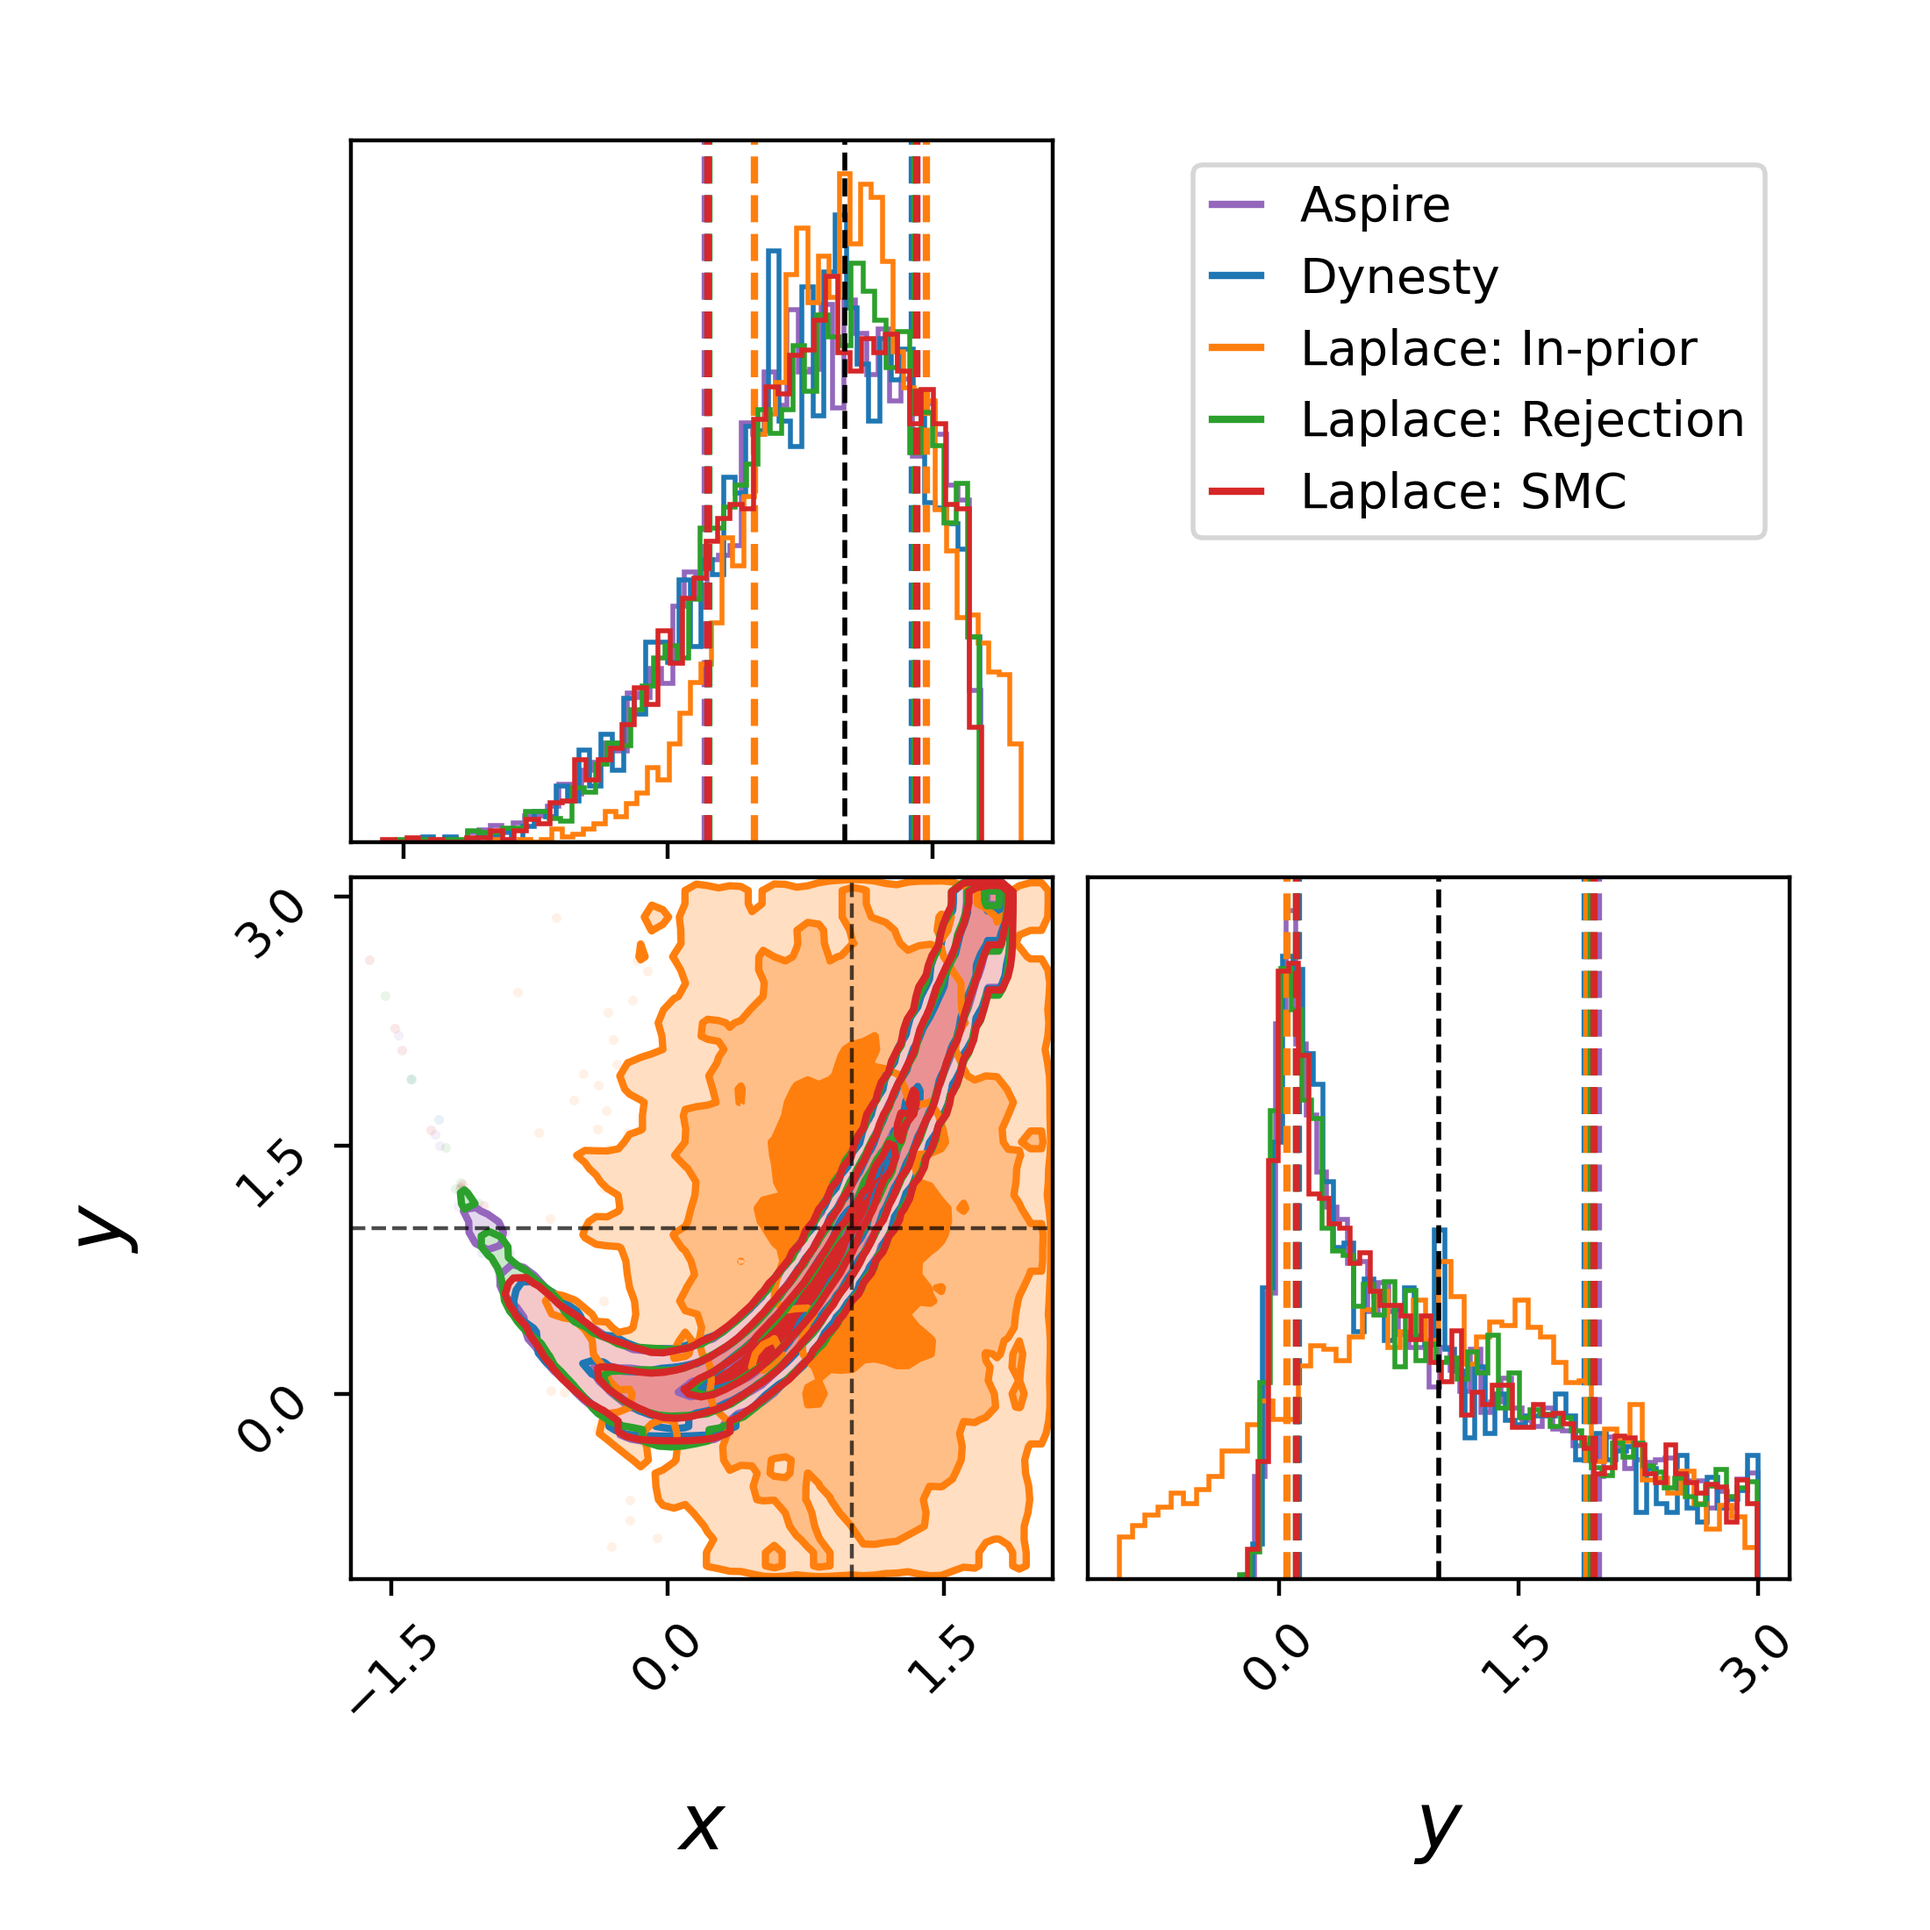
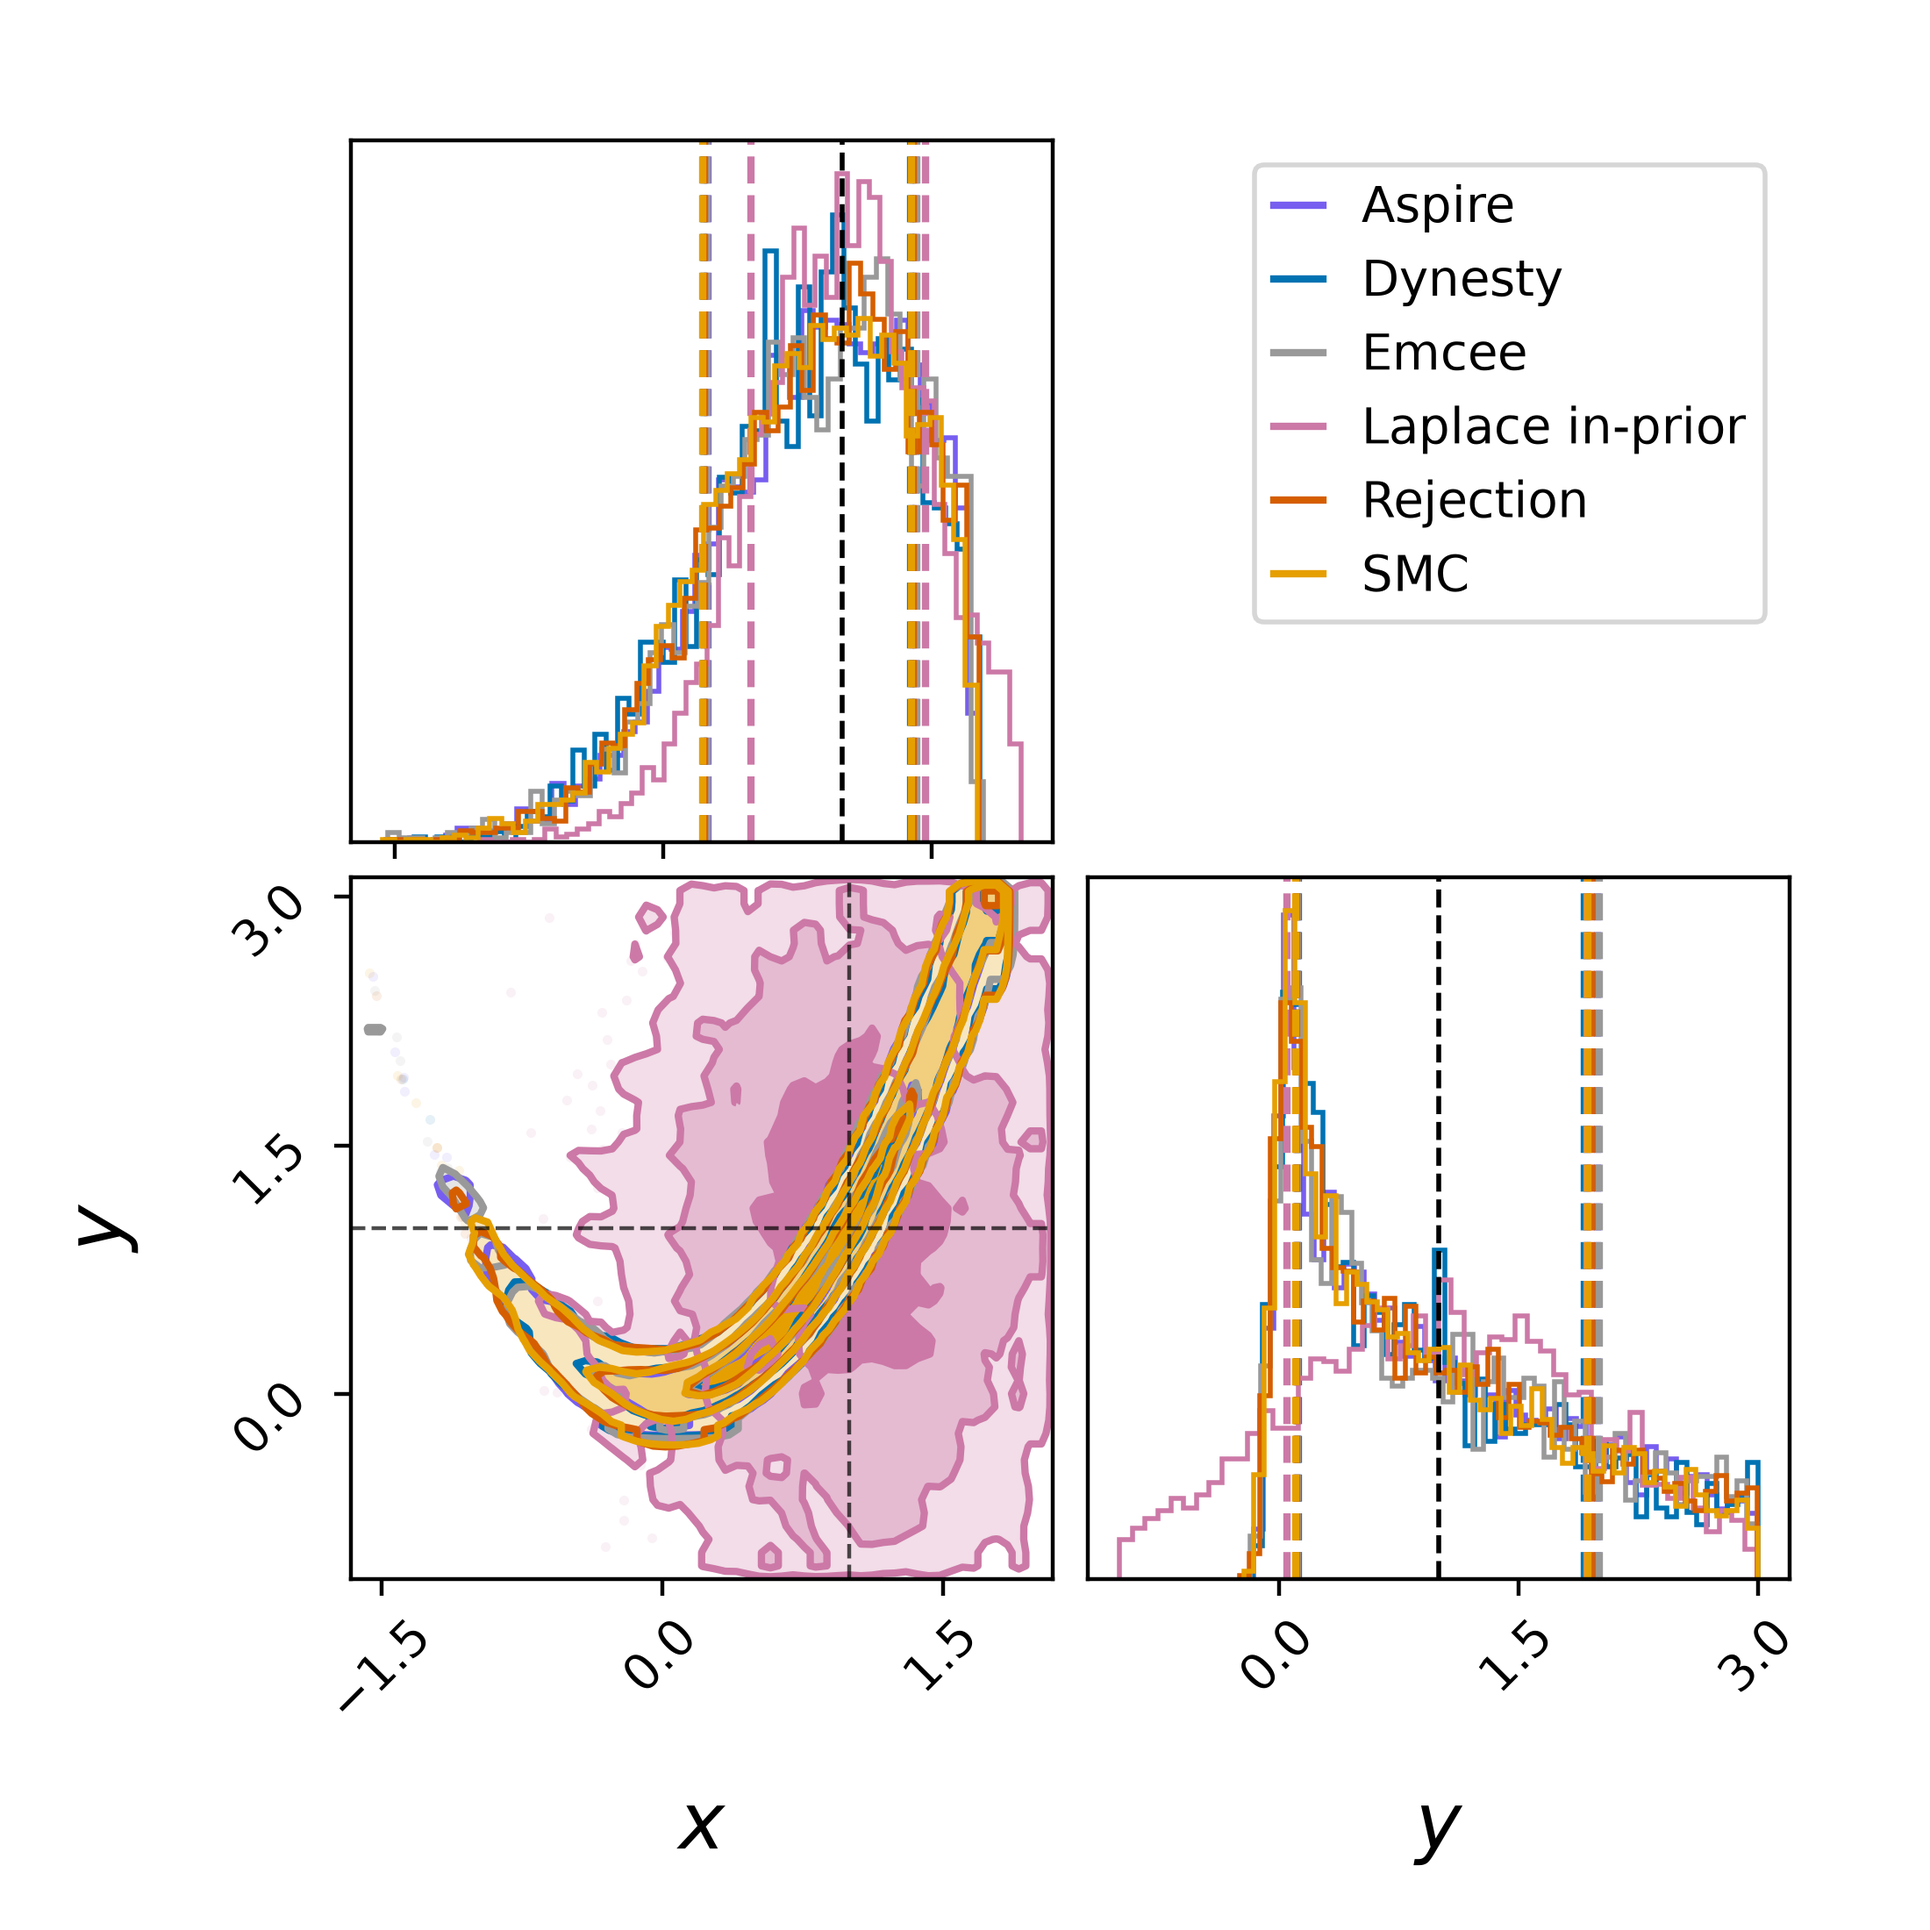
Add emcee to the gaussian and rosenbrock examples
Wires resample='emcee' into both examples' Makefile/run.py (mirroring
the existing sampler choices), runs it alongside the other methods, and
regenerates each README/comparison plot from the full result set. On
rosenbrock's banana likelihood the ensemble mixes much more slowly than
on the gaussian, so its target_nsamples is lowered to a value the chain
actually reaches rather than chasing the shared 5000 with an
impractically long run.

diff --git a/examples/rosenbrock/run.py b/examples/rosenbrock/run.py
@@ -3,7 +3,7 @@ Laplace approximation on a 2D Rosenbrock (banana) likelihood.
 
 Usage
 -----
-    python run.py --sampler laplace rejection smc smc-direct dynesty
+    python run.py --sampler laplace rejection smc smc-direct emcee dynesty
     python run.py --compare
 """
 
@@ -102,6 +102,25 @@ def run_rejection(_common_laplace):
     )
 
 
+def run_emcee(_common_laplace):
+    # The banana curvature of this likelihood mixes far more slowly than the
+    # Laplace-Gaussian proposal it starts from -- tau grows for tens of
+    # thousands of steps before settling near 300 -- so the 5000-sample target
+    # used elsewhere in this repo would need an impractically long chain.
+    # Accept fewer independent samples rather than chase that target.
+    return bilby.run_sampler(
+        **{**_common_laplace, "target_nsamples": 2500},
+        label=f"{base_label}_emcee",
+        resample="emcee",
+        emcee_kwargs=dict(
+            nwalkers=32,
+            nsteps=2000,
+            discard=1000,
+            max_nsteps=30000,
+        ),
+    )
+
+
 def run_smc(_common_laplace):
     return bilby.run_sampler(
         **_common_laplace,
@@ -161,9 +180,9 @@ if __name__ == "__main__":
     parser.add_argument(
         "--sampler",
         nargs="+",
-        choices=["laplace", "rejection", "smc", "smc-direct", "dynesty"],
+        choices=["laplace", "rejection", "smc", "smc-direct", "emcee", "dynesty"],
         metavar="SAMPLER",
-        help="One or more samplers to run: laplace, rejection, smc, smc-direct, dynesty",
+        help="One or more samplers to run: laplace, rejection, smc, smc-direct, emcee, dynesty",
     )
     parser.add_argument(
         "--compare",
@@ -184,6 +203,7 @@ if __name__ == "__main__":
                 "rejection": lambda: run_rejection(_common_laplace),
                 "smc": lambda: run_smc(_common_laplace),
                 "smc-direct": lambda: run_smc_direct(_common),
+                "emcee": lambda: run_emcee(_common_laplace),
                 "dynesty": lambda: run_dynesty(_common),
             }
 

diff --git a/examples/gaussian/run.py b/examples/gaussian/run.py
@@ -3,7 +3,7 @@ Laplace approximation on a 2D correlated Gaussian likelihood.
 
 Usage
 -----
-    python run.py --sampler laplace rejection rejection-user smc smc-direct dynesty
+    python run.py --sampler laplace rejection rejection-user smc smc-direct emcee dynesty
     python run.py --compare
 """
 
@@ -130,6 +130,20 @@ def run_rejection_user(_common_laplace, sampling_cov):
     )
 
 
+def run_emcee(_common_laplace):
+    return bilby.run_sampler(
+        **_common_laplace,
+        label="emcee",
+        resample="emcee",
+        emcee_kwargs=dict(
+            nwalkers=32,
+            nsteps=2000,
+            discard=1000,
+            max_nsteps=6000,
+        ),
+    )
+
+
 def run_smc(_common_laplace):
     return bilby.run_sampler(
         **_common_laplace,
@@ -187,9 +201,9 @@ if __name__ == "__main__":
     parser.add_argument(
         "--sampler",
         nargs="+",
-        choices=["laplace", "rejection", "rejection-user", "smc", "smc-direct", "dynesty"],
+        choices=["laplace", "rejection", "rejection-user", "smc", "smc-direct", "emcee", "dynesty"],
         metavar="SAMPLER",
-        help="One or more samplers to run: laplace, rejection, rejection-user, smc, smc-direct, dynesty",
+        help="One or more samplers to run: laplace, rejection, rejection-user, smc, smc-direct, emcee, dynesty",
     )
     parser.add_argument(
         "--compare",
@@ -211,6 +225,7 @@ if __name__ == "__main__":
                 "rejection-user": lambda: run_rejection_user(_common_laplace, true_cov),
                 "smc": lambda: run_smc(_common_laplace),
                 "smc-direct": lambda: run_smc_direct(_common),
+                "emcee": lambda: run_emcee(_common_laplace),
                 "dynesty": lambda: run_dynesty(_common),
             }
 

diff --git a/examples/gaussian/README.md b/examples/gaussian/README.md
@@ -1,6 +1,6 @@
 # gaussian — sampler comparison
 
-Posteriors from 6 samplers (`aspire`, `dynesty`, `laplace`, `rejection`, `rejection_user`, `smc`) on the gaussian example, each compared against the `dynesty` reference.
+Posteriors from 7 samplers (`aspire`, `dynesty`, `emcee`, `laplace`, `rejection`, `rejection_user`, `smc`) on the gaussian example, each compared against the `dynesty` reference.
 
 ## Running it
 
@@ -9,7 +9,7 @@ make all       # every sampler in turn, then this comparison
 make compare   # rebuild this table and the corner plot from existing results
 ```
 
-Individual samplers: `make laplace`, `make rejection`, `make rejection-user`, `make smc`, `make aspire`, `make dynesty`.
+Individual samplers: `make laplace`, `make rejection`, `make rejection-user`, `make smc`, `make aspire`, `make emcee`, `make dynesty`.
 
 ## Comparison
 
@@ -23,10 +23,11 @@ Both agreement columns compare each 1-D marginal with `dynesty` at a fixed 2000 
 
 | method | log Z | ± | Mevals | effic. | time | JSD (mbits) | JSD worst | EMD (σ) | EMD worst | settings |
 | --- | --- | --- | --- | --- | --- | --- | --- | --- | --- | --- |
-| `aspire` | -4.62 | 0.03 | 0.18 | 2.8% | 9.2s | 2.07 | y (2.34) | 0.04 | y (0.05) | `nsamples=5000, nsteps=5` |
-| `dynesty` | -4.61 | 0.08 | 0.114 | 3.4% | 7.8s | — | — | — | — | `nlive=1000` |
-| `laplace` | -4.61 | — | 0.005 | 100.0% | 1.0s | 0.92 | x (1.07) | 0.03 | x (0.03) | — |
-| `rejection` | -4.61 | 0.01 | 0.027 | 18.8% | 1.3s | 2.63 | x (3.16) | 0.07 | x (0.07) | — |
-| `rejection_user` | -4.61 | 0.01 | 0.027 | 18.8% | 1.1s | 2.47 | y (2.50) | 0.05 | y (0.06) | — |
-| `smc` | -4.61 | 0.01 | 0.045 | 11.1% | 11.2s | 0.68 | y (0.71) | 0.03 | y (0.03) | `nsamples=5000, nsteps=5` |
+| `aspire` | -4.60 | 0.03 | 0.18 | 2.8% | 22.8s | 2.76 | y (2.82) | 0.08 | x (0.09) | `nsamples=5000, nsteps=5` |
+| `dynesty` | -4.61 | 0.08 | 0.114 | 3.4% | 17.4s | — | — | — | — | `nlive=1000` |
+| `emcee` | — | — | 0.192 | 2.6% | 18.1s | 1.43 | y (1.43) | 0.05 | y (0.06) | — |
+| `laplace` | -4.61 | — | 0.005 | 100.0% | 2.7s | 0.88 | x (1.09) | 0.04 | y (0.05) | — |
+| `rejection` | -4.61 | 0.01 | 0.027 | 18.8% | 3.4s | 1.98 | x (2.13) | 0.05 | y (0.05) | — |
+| `rejection_user` | -4.61 | 0.01 | 0.027 | 18.8% | 3.4s | 2.22 | x (2.97) | 0.05 | x (0.05) | — |
+| `smc` | -4.61 | 0.01 | 0.045 | 11.1% | 25.3s | 1.17 | y (1.18) | 0.03 | y (0.04) | `nsamples=5000, nsteps=5` |
 

diff --git a/examples/rosenbrock/README.md b/examples/rosenbrock/README.md
@@ -1,6 +1,6 @@
 # rosenbrock — sampler comparison
 
-Posteriors from 5 samplers (`rosenbrock_aspire`, `rosenbrock_dynesty`, `rosenbrock_inprior`, `rosenbrock_rejection`, `rosenbrock_smc`) on the rosenbrock example, each compared against the `rosenbrock_dynesty` reference.
+Posteriors from 6 samplers (`rosenbrock_aspire`, `rosenbrock_dynesty`, `rosenbrock_emcee`, `rosenbrock_inprior`, `rosenbrock_rejection`, `rosenbrock_smc`) on the rosenbrock example, each compared against the `rosenbrock_dynesty` reference.
 
 ## Running it
 
@@ -9,7 +9,7 @@ make all       # every sampler in turn, then this comparison
 make compare   # rebuild this table and the corner plot from existing results
 ```
 
-Individual samplers: `make laplace`, `make rejection`, `make smc`, `make aspire`, `make dynesty`.
+Individual samplers: `make laplace`, `make rejection`, `make smc`, `make aspire`, `make emcee`, `make dynesty`.
 
 ## Comparison
 
@@ -23,9 +23,10 @@ Both agreement columns compare each 1-D marginal with `rosenbrock_dynesty` at a 
 
 | method | log Z | ± | Mevals | effic. | time | JSD (mbits) | JSD worst | EMD (σ) | EMD worst | settings |
 | --- | --- | --- | --- | --- | --- | --- | --- | --- | --- | --- |
-| `rosenbrock_aspire` | -4.10 | 0.03 | 20 | 0.025% | 42.8s | 2.11 | x (2.21) | 0.09 | y (0.09) | `nsamples=5000, nsteps=1000` |
-| `rosenbrock_dynesty` | -4.13 | 0.07 | 0.212 | 1.7% | 10.7s | — | — | — | — | `nlive=1000` |
-| `rosenbrock_inprior` | — | — | 0.005 | 100.0% | 0.7s | 44.81 | y (61.48) | 0.28 | x (0.32) | — |
-| `rosenbrock_rejection` | -4.09 | 0.01 | 0.202 | 2.5% | 2.7s | 1.20 | x (1.59) | 0.04 | y (0.04) | — |
-| `rosenbrock_smc` | -4.16 | 0.03 | 18.3 | 0.027% | 2.4m | 0.69 | y (0.77) | 0.04 | y (0.04) | `nsamples=5000, nsteps=1000` |
+| `rosenbrock_aspire` | -4.06 | 0.03 | 20 | 0.025% | 1.2m | 2.26 | x (2.91) | 0.07 | x (0.07) | `nsamples=5000, nsteps=1000` |
+| `rosenbrock_dynesty` | -4.13 | 0.07 | 0.212 | 1.7% | 25.1s | — | — | — | — | `nlive=1000` |
+| `rosenbrock_emcee` | — | — | 0.76 | 0.3% | 1.0m | 2.32 | x (2.68) | 0.07 | y (0.08) | — |
+| `rosenbrock_inprior` | — | — | 0.005 | 100.0% | 3.4s | 43.15 | y (59.23) | 0.28 | x (0.32) | — |
+| `rosenbrock_rejection` | -4.09 | 0.01 | 0.202 | 2.5% | 4.7s | 1.49 | x (2.05) | 0.05 | x (0.06) | — |
+| `rosenbrock_smc` | -4.12 | 0.03 | 18.3 | 0.027% | 1.4m | 1.43 | x (1.73) | 0.04 | y (0.04) | `nsamples=5000, nsteps=1000` |
 
